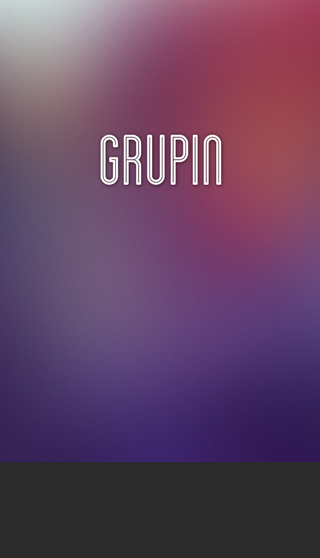
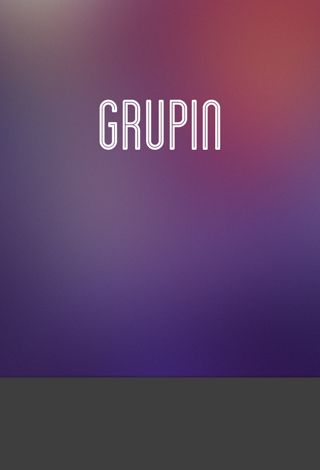
support iPhone 4

diff --git a/wammer/WASharedEventViewController.m b/wammer/WASharedEventViewController.m
@@ -125,7 +125,7 @@
       break;
       
     case NSFetchedResultsChangeUpdate:
-      [tableView reloadRowsAtIndexPaths:@[newIndexPath] withRowAnimation:UITableViewRowAnimationNone];
+      [tableView reloadRowsAtIndexPaths:@[indexPath] withRowAnimation:UITableViewRowAnimationNone];
       break;
       
   }
